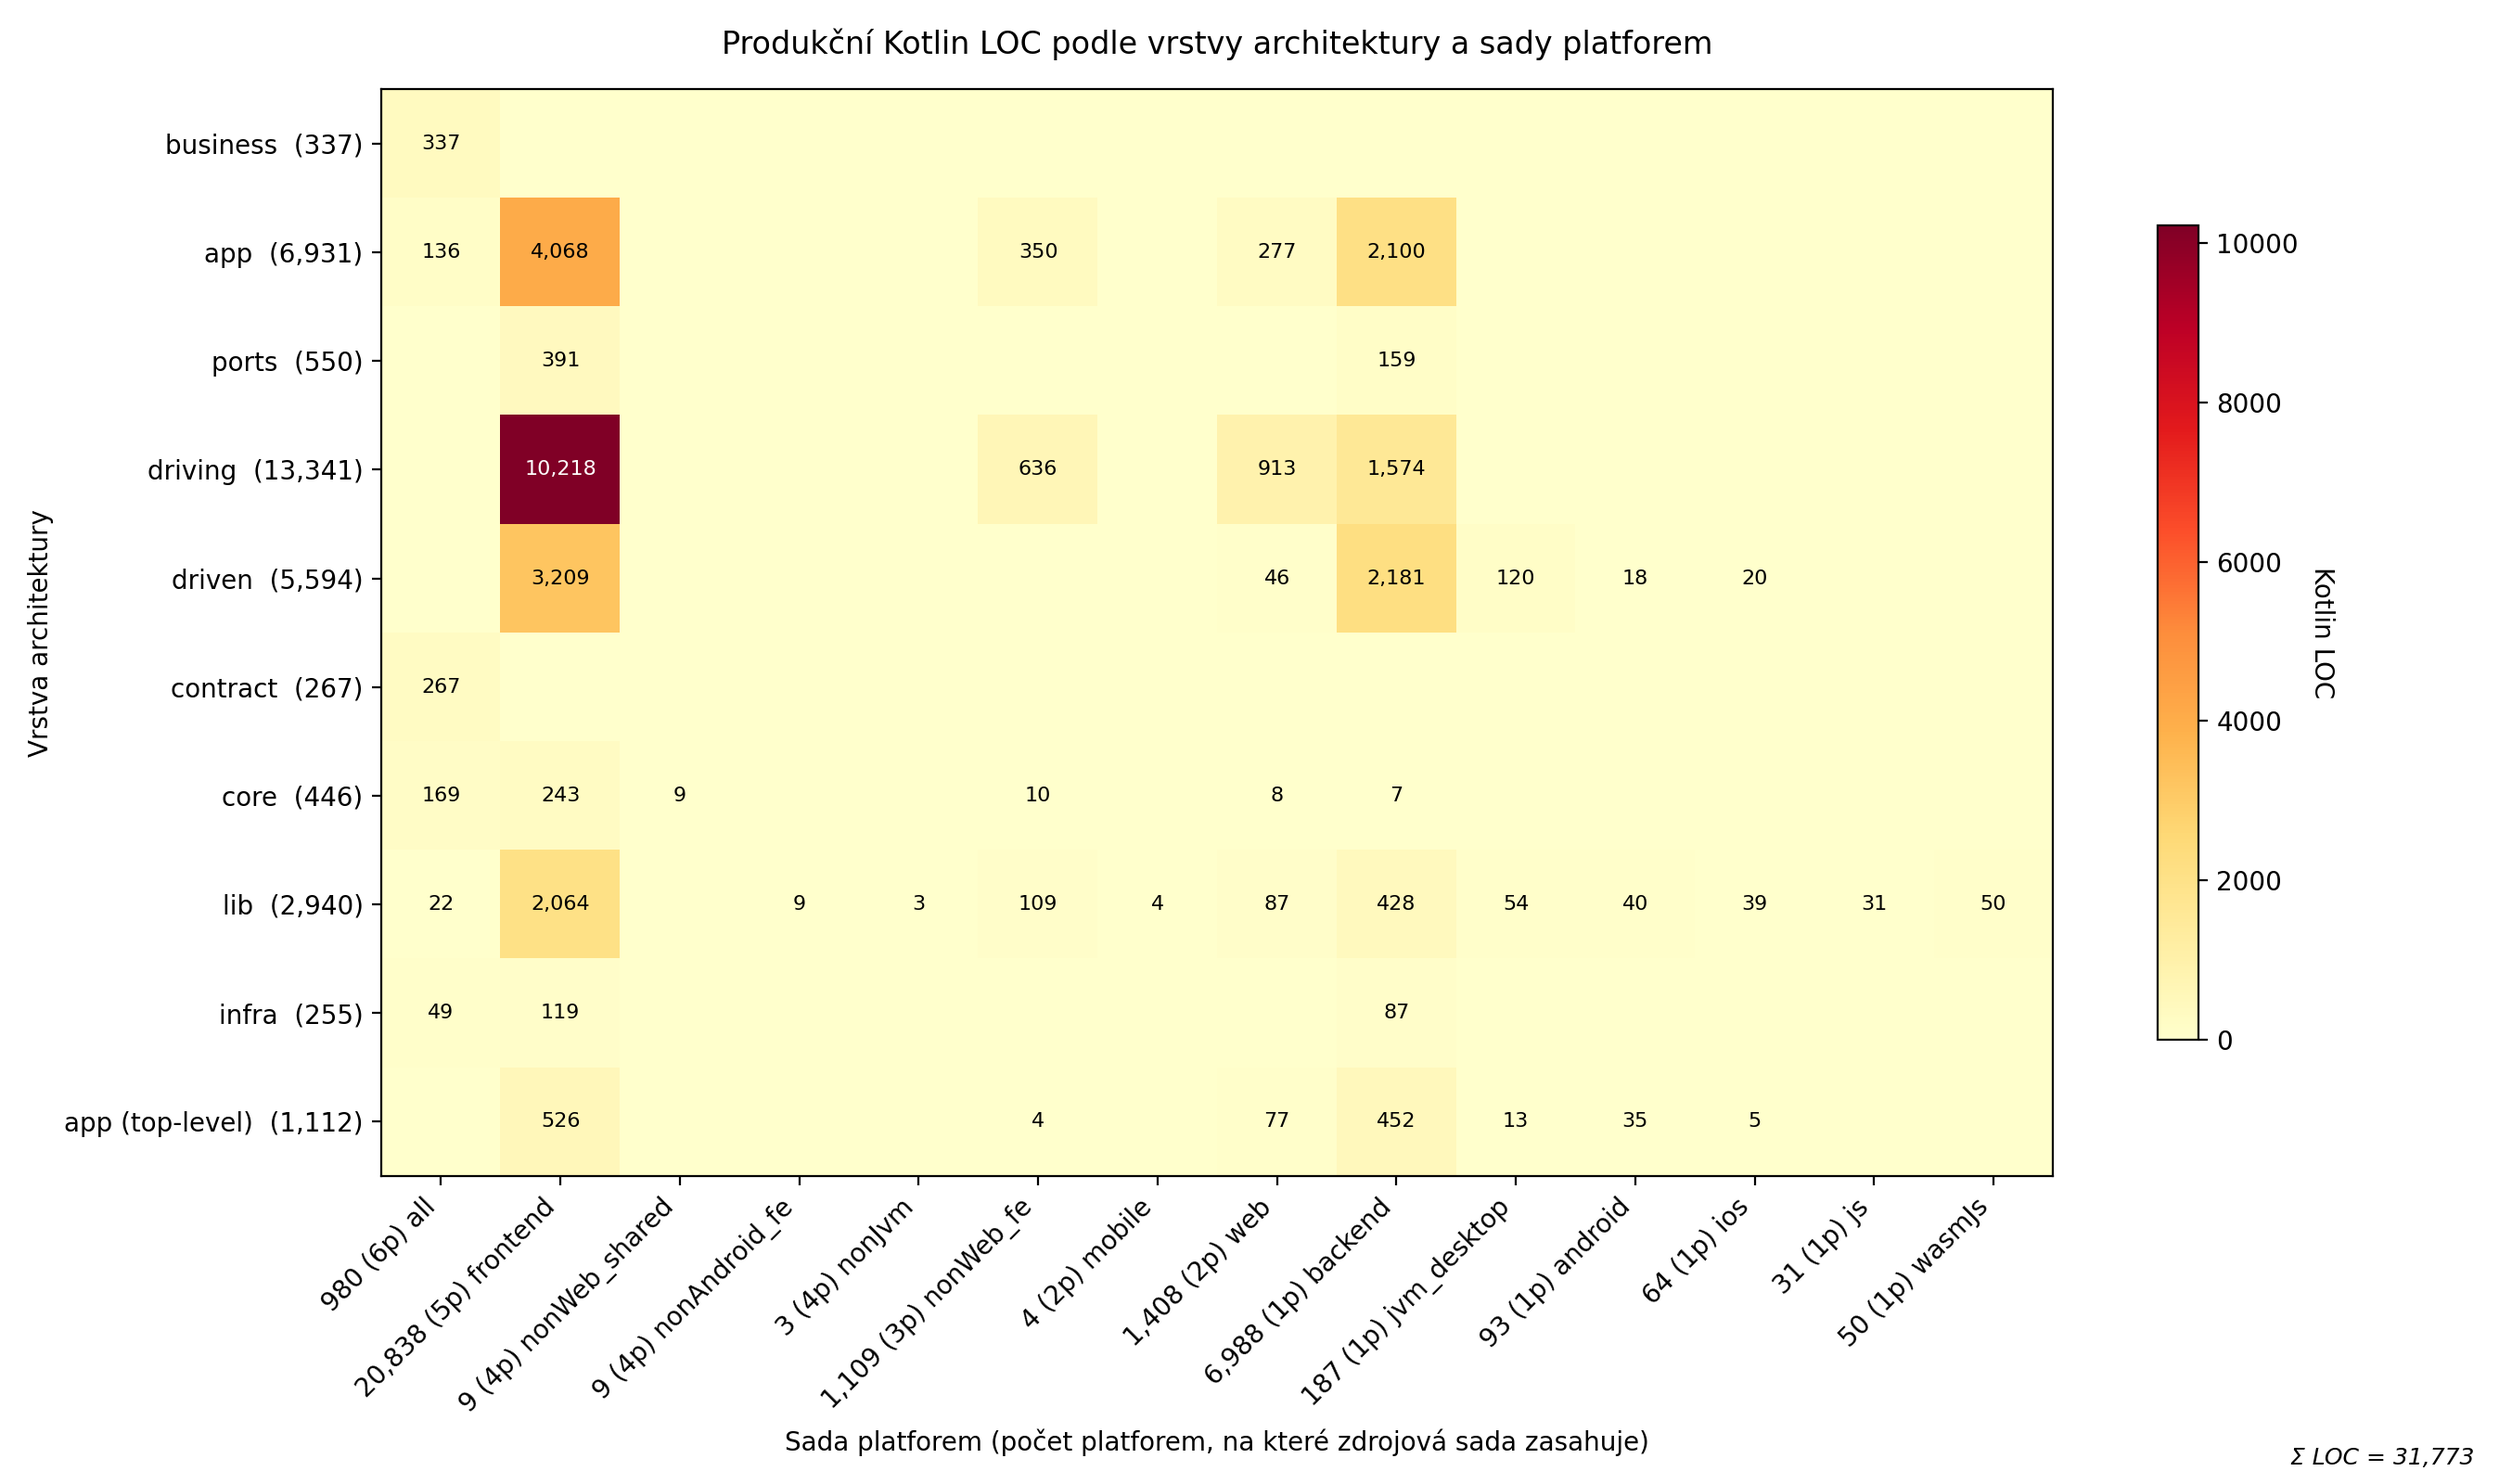
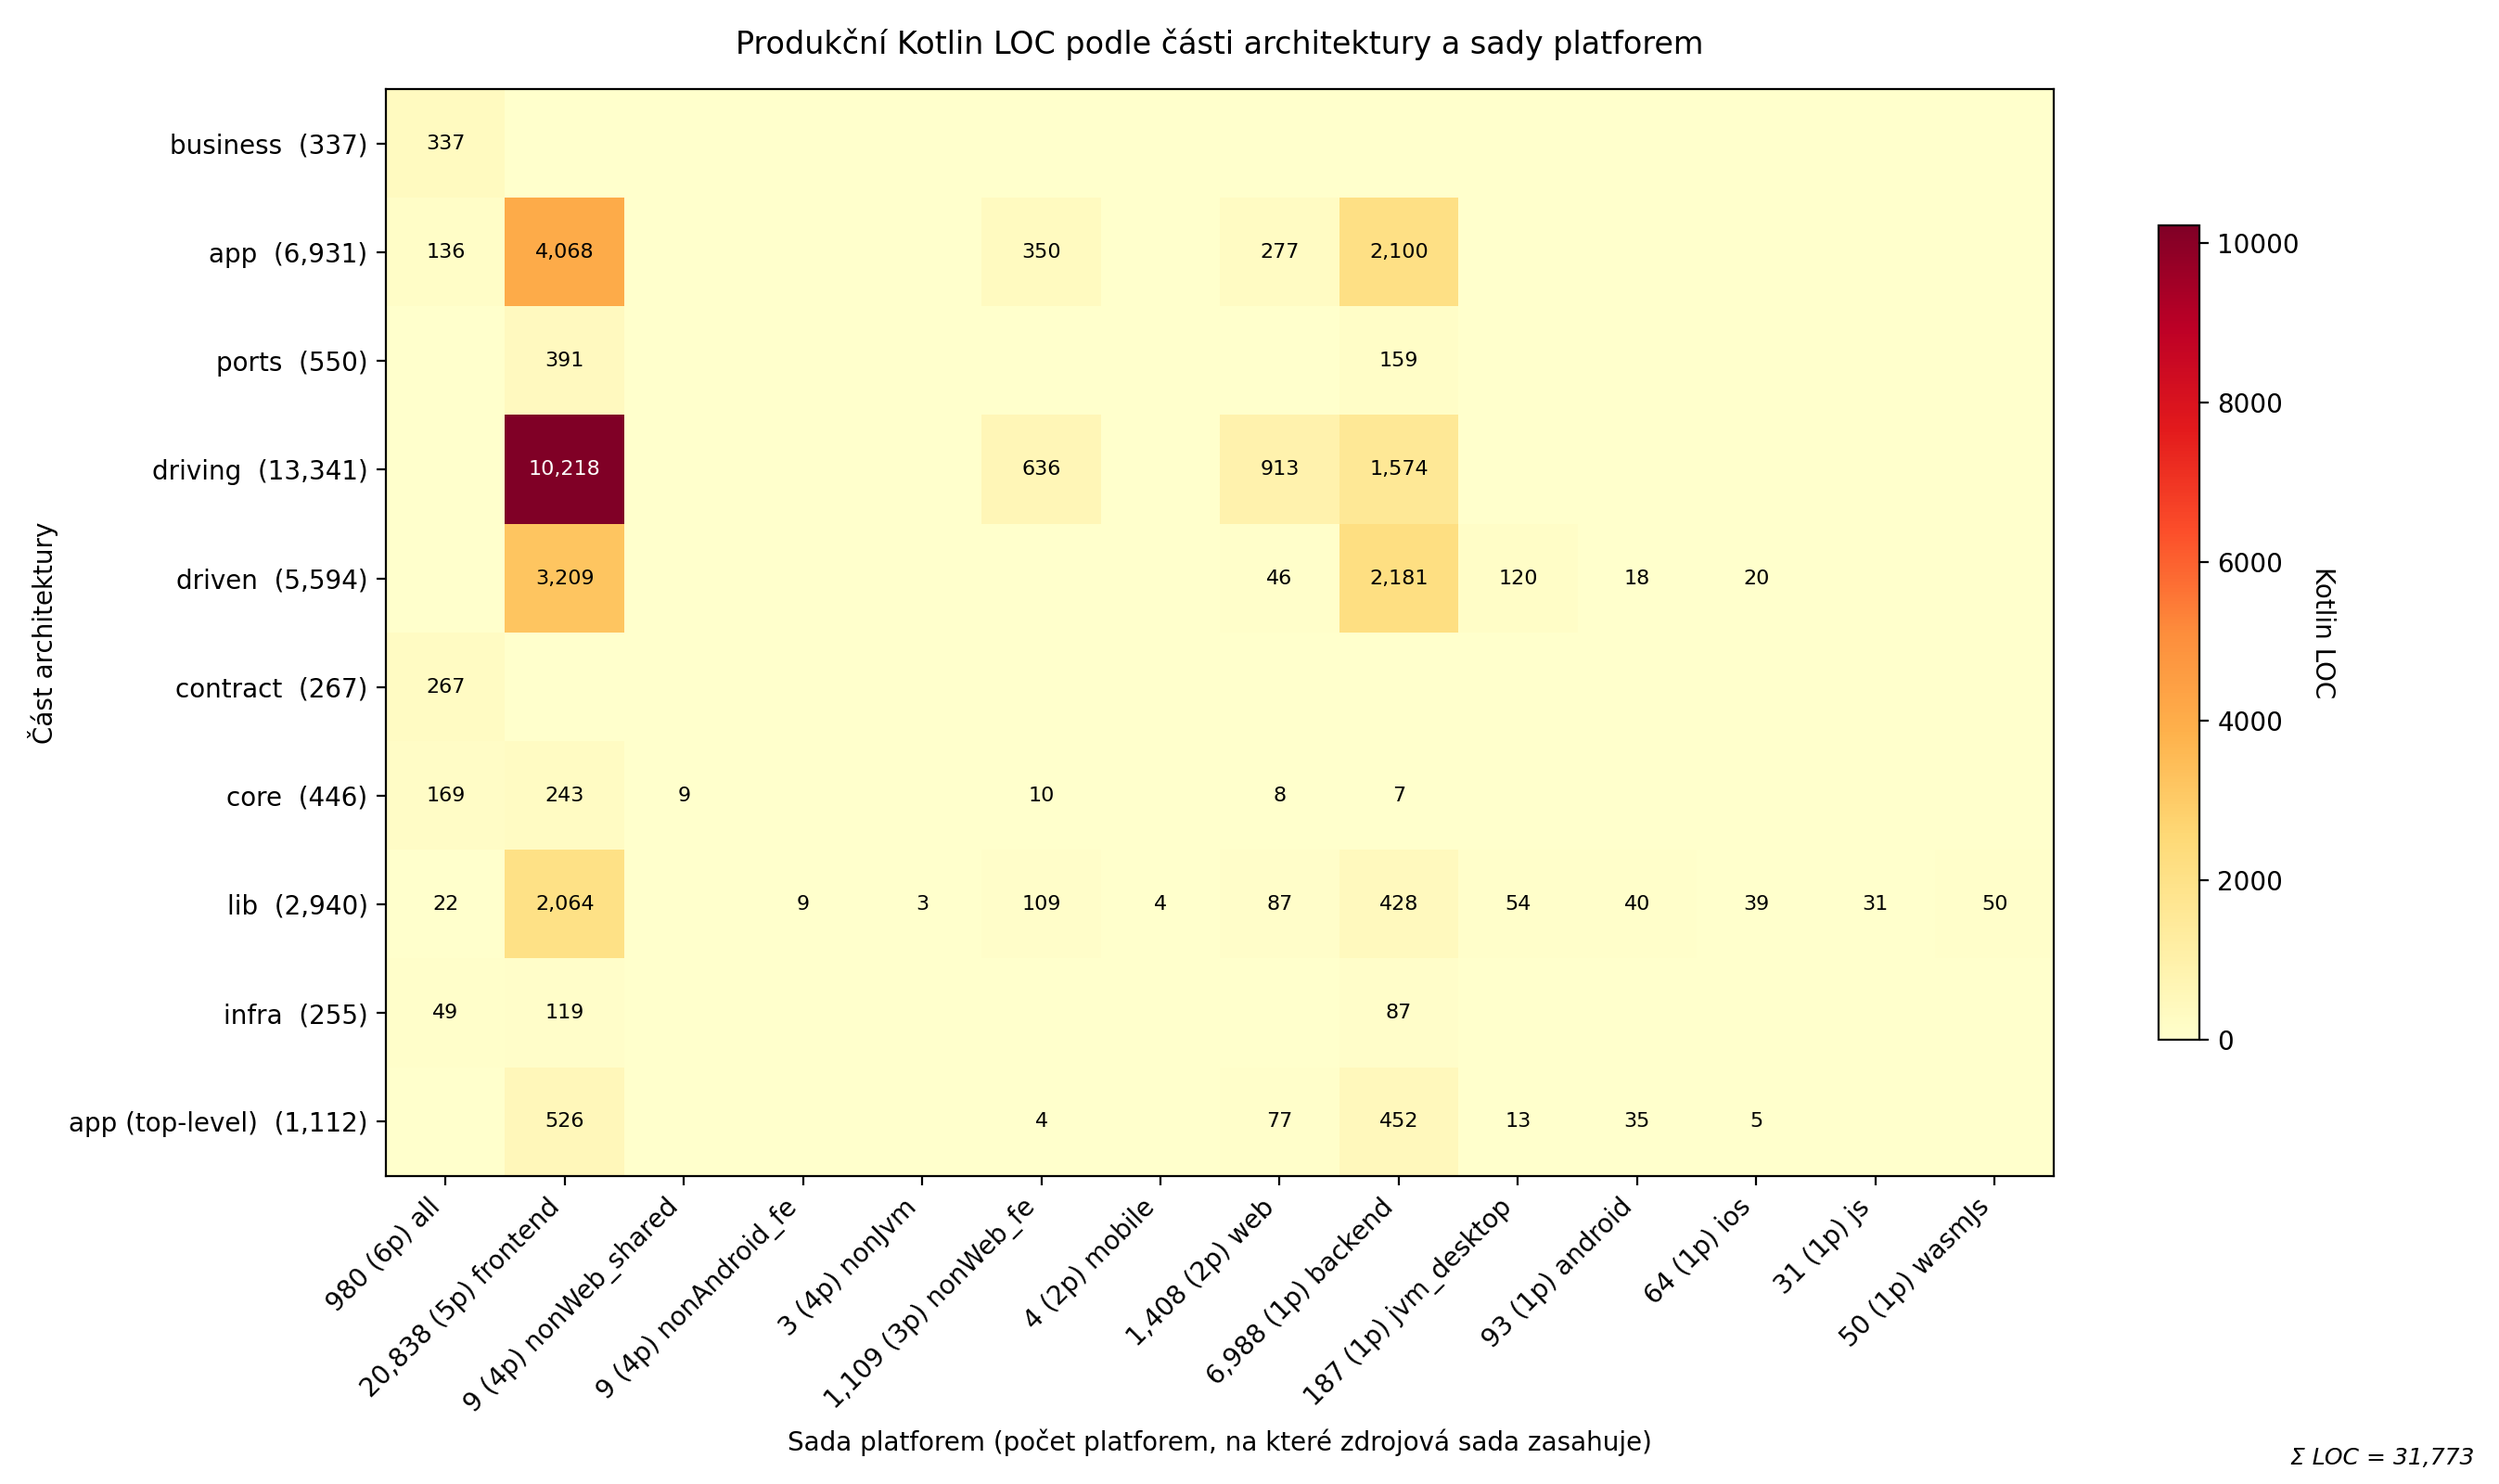
analysis: align heatmap title/y-label with "část architektury" (#258)
PR #255 already renamed the layer-divergence figure to use "část
architektury"; the platform-set heatmap (fig_4_2_layer_platform_set_heatmap)
still said "Vrstva architektury" / "podle vrstvy architektury". Sync
both wordings so the §4.2 figures use one consistent term.

diff --git a/analysis/figures.py b/analysis/figures.py
@@ -215,9 +215,9 @@ def figure_layer_platform_set_heatmap(df: pd.DataFrame) -> None:
     im = ax.imshow(data, aspect="auto", cmap="YlOrRd")
 
     ax.set_xlabel("Sada platforem (počet platforem, na které zdrojová sada zasahuje)")
-    ax.set_ylabel("Vrstva architektury")
+    ax.set_ylabel("Část architektury")
     ax.set_title(
-        "Produkční Kotlin LOC podle vrstvy architektury a sady platforem",
+        "Produkční Kotlin LOC podle části architektury a sady platforem",
         pad=14,
     )
 
